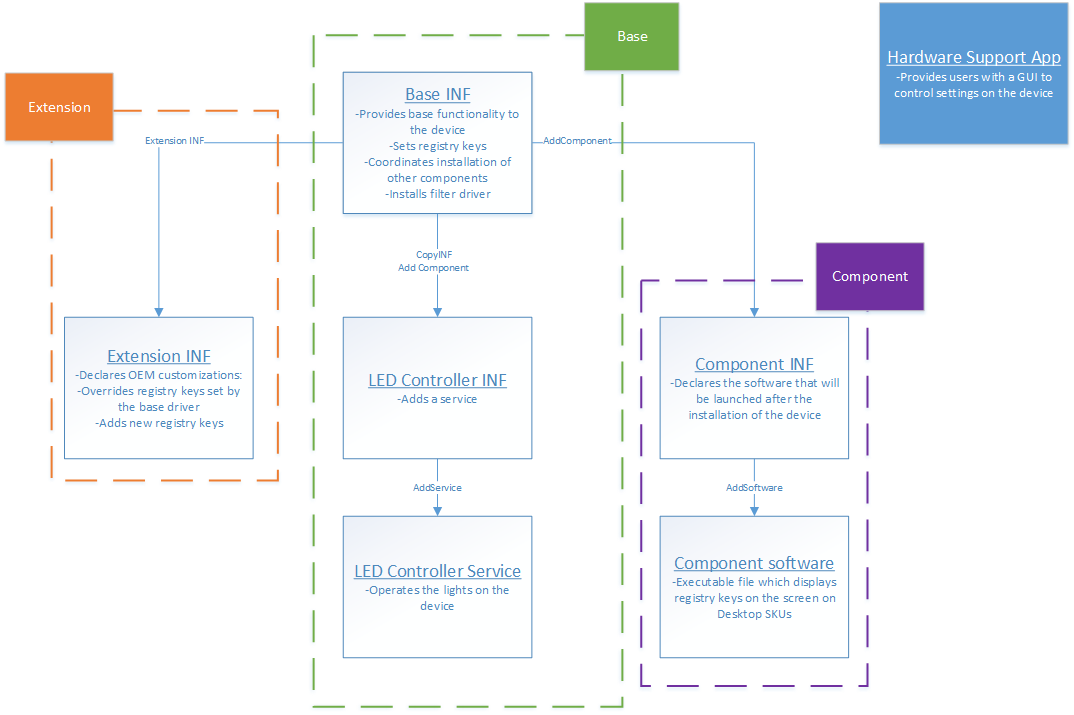
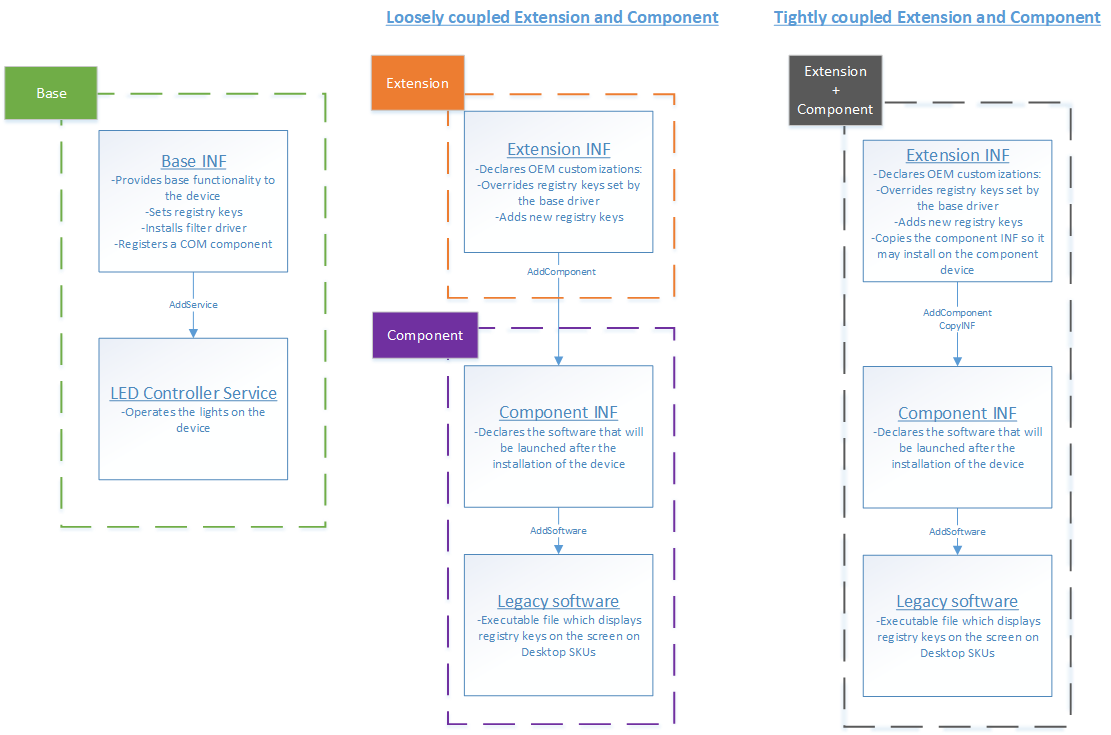
update DCHU sample text, image

diff --git a/windows-driver-docs-pr/develop/universal-driver-scenarios.md b/windows-driver-docs-pr/develop/universal-driver-scenarios.md
@@ -56,7 +56,7 @@ Note that extensions are always processed after the primary INF in no definite o
 
 ## Install a service from an INF file
 
-Fabrikam uses a Win32 service to control the the LEDs on the OSR board. They view this component as part of the core functionality of the device, so they include it as part of their base INF ([`osrfx2_DCHU_base.inx`]). This user-mode service (usersvc) can be added and started declaratively by specifiying the [**AddService**](../install/inf-addservice-directive.md) directive in the INF file :
+Fabrikam uses a Win32 service to control the the LEDs on the OSR board. They view this component as part of the core functionality of the device, so they include it as part of their base INF ([`osrfx2_DCHU_base.inx`]).  This user-mode service (usersvc) can be added and started declaratively by specifying the [**AddService**](../install/inf-addservice-directive.md) directive in the INF file:
 
 ```
 [OsrFx2_Install.NT]
@@ -137,7 +137,7 @@ The new app (not included in the DCHU sample) is secure and can be updated easil
 
 ## Registering a COM component in an INF file
 
-Fabrikam needs to register a COM component without using a co-installer. In order to accomplish this in a universal INF file, they use the [reg2inf tool](https://docs.microsoft.com/en-us/windows-hardware/drivers/devtest/reg2inf) distributed in the WDK. After building their COM server project (taken from the [In-process ATL COM server sample](https://code.msdn.microsoft.com/ATLDllCOMServer-b52a7d5d)), they provide the COM .dll as an input to the reg2inf tool. The tool then generates the following INF directives that Fabrikam includes in their base INF ([`osrfx2_DCHU_base.inx`]):
+Fabrikam needs to register a COM component without using a co-installer.  In order to accomplish this in a universal INF file, they use the [Reg2inf tool](https://docs.microsoft.com/en-us/windows-hardware/drivers/devtest/reg2inf) distributed in the WDK.  After building their COM server project (taken from the [In-process ATL COM server sample](https://code.msdn.microsoft.com/ATLDllCOMServer-b52a7d5d)), they provide the COM .dll as an input to the Reg2inf tool.  The tool then generates the following INF directives that Fabrikam includes in their base INF ([`osrfx2_DCHU_base.inx`]):
 
 ```
 ; Add all registry keys to successfully register the
@@ -157,23 +157,22 @@ HKCR,CLSID\{92FCF37F-F6C7-4F8A-AA09-1A14BA118084}\ProgID,,,"ATLDllCOMServer.Simp
 HKCR,CLSID\{92FCF37F-F6C7-4F8A-AA09-1A14BA118084}\Programmable,,%FLG_ADDREG_KEYONLY%
 HKCR,CLSID\{92FCF37F-F6C7-4F8A-AA09-1A14BA118084}\TypeLib,,,"{9B23EFED-A0C1-46B6-A903-218206447F3E}"
 HKCR,CLSID\{92FCF37F-F6C7-4F8A-AA09-1A14BA118084}\VersionIndependentProgID,,,"ATLDllCOMServer.SimpleObject"
-
 ```
 
 ## Tightly coupling multiple INF files
 
-Ideally, there should be strong versioning contracts between base, extensions and components. There are servicing advantages in having these three packages serviced independently, but there are scenarios where they need to be tightly coupled due to poor versioning contracts. The sample includes an example of how to package an extensions and components separately (loosely coupled files under  [DCHU_Sample\osrfx2_DCHU_extension_loose](https://github.com/Microsoft/Windows-driver-samples/tree/master/general/DCHU/osrfx2_DCHU_extension_loose)) or together (tightly coupled files under [DCHU_Sample\osrfx2_DCHU_extension_tight](https://github.com/Microsoft/Windows-driver-samples/tree/master/general/DCHU/osrfx2_DCHU_extension_tight)). When the extension and component are tightly coupled, the extension INF is responsible of enabling the installation of the component INF. This is demonstrated in [DCHU_Sample\osrfx2_DCHU_extension_tight\osrfx2_DCHU_extension\osrfx2_DCHU_extension.inx](https://github.com/Microsoft/Windows-driver-samples/blob/master/general/DCHU/osrfx2_DCHU_extension_tight/osrfx2_DCHU_extension/osrfx2_DCHU_extension.inx) by using the [CopyINF directive](https://docs.microsoft.com/en-us/windows-hardware/drivers/install/inf-copyinf-directive):
+Ideally, there should be strong versioning contracts between base, extensions and components.  There are servicing advantages in having these three packages serviced independently, but there are scenarios where they need to be bundled in a single driver package ("tightly coupled") due to poor versioning contracts.  The sample includes an example of how to package an extensions and components separately ("loosely coupled" files under  [DCHU_Sample\osrfx2_DCHU_extension_loose](https://github.com/Microsoft/Windows-driver-samples/tree/master/general/DCHU/osrfx2_DCHU_extension_loose)) or together (tightly coupled files under [DCHU_Sample\osrfx2_DCHU_extension_tight](https://github.com/Microsoft/Windows-driver-samples/tree/master/general/DCHU/osrfx2_DCHU_extension_tight)).  When the extension and component are tightly coupled, the extension INF is responsible for enabling the installation of the component INF.  This is demonstrated in [DCHU_Sample\osrfx2_DCHU_extension_tight\osrfx2_DCHU_extension\osrfx2_DCHU_extension.inx](https://github.com/Microsoft/Windows-driver-samples/blob/master/general/DCHU/osrfx2_DCHU_extension_tight/osrfx2_DCHU_extension/osrfx2_DCHU_extension.inx) by using the [CopyINF directive](https://docs.microsoft.com/en-us/windows-hardware/drivers/install/inf-copyinf-directive):
 
 ```
 [OsrFx2Extension_Install.NT]
 CopyInf=osrfx2_DCHU_component.inf
 ```
 
-This directive can also be used to coordinate installation of INF files in multifunction devices. For more details, see [Copying INF files](https://docs.microsoft.com/en-us/windows-hardware/drivers/install/copying-inf-files). 
+This directive can also be used to coordinate installation of INF files in multifunction devices.  For more details, see [Copying INF files](https://docs.microsoft.com/en-us/windows-hardware/drivers/install/copying-inf-files). 
 
 ## Run from the driver store
 
-To make it easier to update the driver, Fabrikam specifies the [Driver Store](../install/driver-store.md) as the destination to copy the driver files by using [DirId 13](https://docs.microsoft.com/en-us/windows-hardware/drivers/install/using-dirids) where possible. Here is an example from [`osrfx2_DCHU_base.inx`]:
+To make it easier to update the driver, Fabrikam specifies the [Driver Store](../install/driver-store.md) as the destination to copy the driver files by using [DirId 13](https://docs.microsoft.com/en-us/windows-hardware/drivers/install/using-dirids) where possible.  Here is an example from [`osrfx2_DCHU_base.inx`]:
 
 ```
 [DestinationDirs]
@@ -184,11 +183,11 @@ Using a destination directory value of 13 can result in improved stability durin
 
 ## Summary
 
-The following diagram shows the driver packages that Fabrikam and Contoso created for their Universal Windows Driver.  In the loosely coupled example, they will make three submissions on the [Windows Hardware Dev Center dashboard](https://developer.microsoft.com/dashboard/Registration/Hardware), in the tightly coupled example, they will make two submissions.
+The following diagram shows the driver packages that Fabrikam and Contoso created for their Universal Windows Driver.  In the loosely coupled example, they will make three separate submissions on the [Windows Hardware Dev Center dashboard](https://developer.microsoft.com/dashboard/Registration/Hardware).  In the tightly coupled example, they will make two submissions.
 
 ![Extension, primary, and component driver packages](images/universal-scenarios.png)
 
-Note that the component INF will match on the component hardware ID, whereas the base and extensions will match on the board's HWID. 
+Note that the component INF will match on the component hardware ID, whereas the base and extensions will match on the board's hardware ID.
 
 ## See also
 
